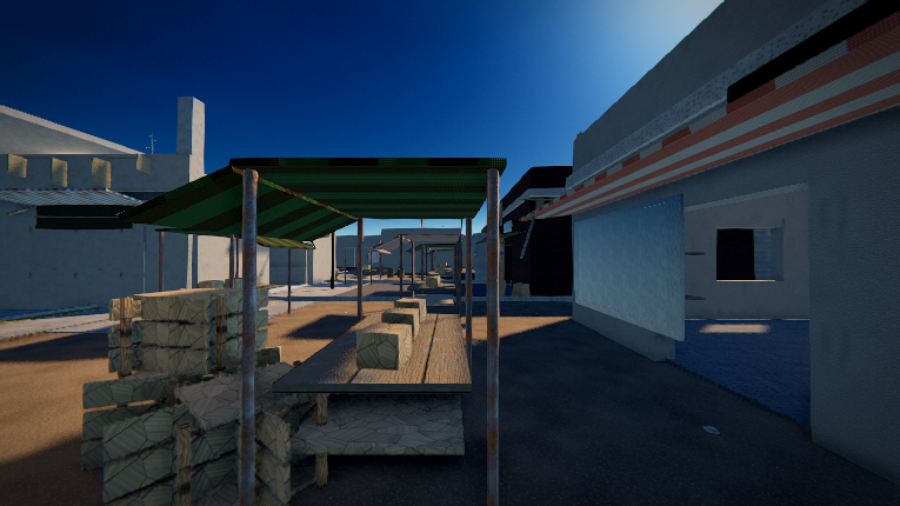
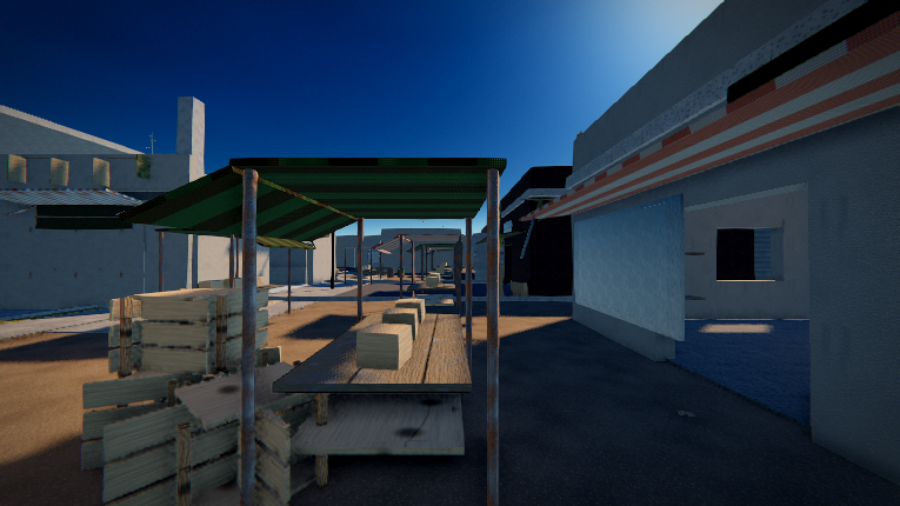
軽量化の効果を測り直して訂正し、合板のテクスチャを作り直す
■ 前のコミットの数字を訂正する
「内蔵GPU 815ms → 215ms（3.8 倍）」と書いたが、これは誤り。
ブラウザを起動し直して前後を比べており、ソフトウェア描画の速度が
その時のマシンの混み具合に振られていた。

同一プロセス内で入／切を交互に測り直した（tools/optbench.mjs）。
3 つの視点、往復 2 巡の平均：

                        広場    市場    室内
  光源プール            1.66    1.65    1.77 倍
  ＋ざらつき面のIBL省略  1.69    1.71    1.80 倍
  ＋影のぼかし 1 点      1.69    1.68    1.68 倍

正しくは 約 1.7 倍。効果のほとんどは光源プールによるもの。

■ 影のぼかし 1 点化を「低」から外した
上の通り、有意差が出なかった。
検証に使っているソフトウェア描画は CPU で走るためテクスチャ取得が
相対的に安く、5 点を 1 点にしても差が埋もれる。
テクスチャユニットが細い内蔵 GPU では効くと見込んで
内蔵GPU設定にだけ残すが、「低」から上は 5 点のままにする。
効果を測れていない画質低下を、広い範囲へ入れるべきではない。

■ 測定ツール
tools/optbench.mjs を追加。同一セッション内で最適化の入／切を
交互に測る。視点によって結果が変わる（空が広く写る画では
そもそも PBR が走らない画素が多い）ため、3 通りで測る。
シーン描画とポスト処理を分けて出す。

■ 合板（plywood）を作り直した
Worley のセルごとに木目の向きを変え、セル境界を高さ 0.45 の
深い溝にしていた。法線マップに落ちると目地そのもので、
木ではなく石畳に見えていた。市場の積み荷や屋台の台、
コンテナの床がすべて割れた石のようになっていた。

桂剥きの単板として作り直す。木目は長手方向へ流れ、
節と単板の継ぎ目が入る。研磨されているので凹凸はごく浅い。

併せて OSB（配向性ストランドボード）を別のマテリアルとして新設。
木片は名前の通り概ね一方向へ揃うので、向きは ±25 度に散らし、
木片の境目も浅い段差にとどめる。

■ 調べもの用
tools/whatis.mjs を追加。指定した視点から格子状にレイを飛ばし、
当たったメッシュのマテリアル名と距離を並べる。
「この妙な模様は何か」を目分量ではなく名前で特定できる。

Claude-Session: https://claude.ai/code/session_017BoqgF6tUzTWYWnRBSwZuk

diff --git a/src/render/TextureFactory.js b/src/render/TextureFactory.js
@@ -254,23 +254,79 @@ const DEFS = {
     o.ao = clamp01(mix(0.35, 0.95, seam) - knot * 0.25);
   },
 
-  /* --- 合板 / OSB --- */
+  /* --- 合板（構造用ラワン合板の表面） --- */
   plywood(u, v, o, S) {
-    const chips = worley(u * 9, v * 5, 9, S, 1);
-    const dir = chips.id * TAU;
-    const gu = u * Math.cos(dir) + v * Math.sin(dir);
-    const grain = valueNoise(gu * 140, chips.id * 50, 140, S + 3);
-    const glue = fbm(u * 7, v * 7, { octaves: 4, period: 7, seed: S + 11 });
-    const edge = smoothstep(0.0, 0.05, chips.f2 - chips.f1);
+    /*
+     * 合板の表面は、丸太を桂剥きにした 1 枚の連続した単板。
+     * 木目は板の長手方向へ流れ、ところどころに節と継ぎ目が入る。
+     *
+     * 以前は Worley のセルごとに木目の向きを変える OSB の作りで、
+     * さらにセル境界を高さ 0.45 の深い溝にしていた。
+     * 法線マップに落ちると目地そのもので、木ではなく石畳に見えていた。
+     */
 
-    const tone = 0.5 + chips.id * 0.4;
-    let l = (0.3 + grain * 0.13) * (0.7 + tone * 0.55) - glue * 0.05;
-    l *= mix(0.72, 1, edge);
-    o.r = l * 1.0; o.g = l * 0.79; o.b = l * 0.53;
-    o.h = grain * 0.25 + edge * 0.45;
-    o.rough = clamp01(0.78 + grain * 0.14);
+    // 単板の継ぎ目。1m 弱の幅で縦に切り替わり、色味がわずかに違う
+    const seamPos = v * 1.15 + valueNoise(u * 1.7, 0.5, 2, S + 5) * 0.22;
+    const sheet = Math.floor(seamPos);
+    const sheetTone = hash01(sheet * 37 + 11, 7, S + 5);
+    const seam = smoothstep(0.985, 1.0, seamPos - sheet) + smoothstep(0.015, 0.0, seamPos - sheet);
+
+    /*
+     * 木目。年輪が桂剥きで引き伸ばされるので、
+     * u 方向へ大きく、v 方向へ細かい縞になる。
+     * 少し歪ませて、定規で引いたような平行線にしない。
+     */
+    const wob = fbm(u * 2.4, v * 7, { octaves: 3, period: 7, seed: S + 2 }) * 0.10;
+    const grain = valueNoise(u * 5 + wob * 6, v * 96, 96, S);
+    const fine = valueNoise(u * 13, v * 260, 260, S + 7);
+    // 濃い夏目の筋（数本だけ強く出る）
+    const dark = smoothstep(0.62, 0.86, grain);
+
+    // 節。まばらに散らし、周りの木目を吸い寄せたように暗くする
+    const kn = worley(u * 3.2, v * 2.0, 4, S + 17, 1);
+    const knot = smoothstep(0.26, 0.05, kn.f1) * (kn.id > 0.74 ? 1 : 0);
+
+    let l = 0.40 + grain * 0.14 + fine * 0.045 - dark * 0.06;
+    l *= mix(0.90, 1.05, sheetTone);
+    l = mix(l, l * 0.46, knot);
+    l -= seam * 0.10;
+
+    // ラワンの赤みがかった黄土色
+    o.r = l * 1.0; o.g = l * 0.78; o.b = l * 0.53;
+    /*
+     * 研磨されているので凹凸はごく浅い。
+     * 高さに出すのは木目のわずかな導管と、継ぎ目の段差だけ。
+     */
+    o.h = grain * 0.14 + fine * 0.05 - knot * 0.12 - seam * 0.30;
+    o.rough = clamp01(0.80 + dark * 0.06 + knot * 0.09 - fine * 0.03);
     o.metal = 0;
-    o.ao = clamp01(0.6 + edge * 0.4);
+    o.ao = clamp01(0.92 - knot * 0.34 - seam * 0.22);
+  },
+
+  /* --- OSB（配向性ストランドボード） --- */
+  osb(u, v, o, S) {
+    /*
+     * 細長い木片を接着剤で圧縮した板。工事現場の仮囲いや型枠に使う。
+     * 木片は概ね一方向へ揃うので（配向性の名の通り）、
+     * 向きは 0 度前後に散らす。全方位に回すと木片ではなく
+     * 割れた石に見える。
+     */
+    const chips = worley(u * 7, v * 15, 7, S, 1);       // 横長のセル＝木片
+    const dir = (chips.id - 0.5) * 0.9;                 // ±25 度ほど
+    const gu = u * Math.cos(dir) + v * Math.sin(dir);
+    const grain = valueNoise(gu * 130, chips.id * 60, 130, S + 3);
+    const glue = fbm(u * 9, v * 9, { octaves: 4, period: 9, seed: S + 11 });
+    // 木片の境目。浅い段差にとどめる
+    const edge = smoothstep(0.0, 0.035, chips.f2 - chips.f1);
+
+    const tone = 0.45 + chips.id * 0.45;
+    let l = (0.34 + grain * 0.12) * (0.72 + tone * 0.5) - glue * 0.06;
+    l *= mix(0.84, 1, edge);
+    o.r = l * 1.0; o.g = l * 0.81; o.b = l * 0.55;
+    o.h = grain * 0.18 + edge * 0.16;
+    o.rough = clamp01(0.82 + grain * 0.10 - glue * 0.06);
+    o.metal = 0;
+    o.ao = clamp01(0.74 + edge * 0.26);
   },
 
   /* --- 土 / 乾いた地面 --- */

diff --git a/src/render/MaterialLibrary.js b/src/render/MaterialLibrary.js
@@ -42,6 +42,7 @@ const PRESETS = {
   wood:            { tex: 'wood',         repeat: 0.85,  params: { roughness: 1, metalness: 1 } },
   woodDark:        { tex: 'wood',         repeat: 0.85,  params: { roughness: 1, metalness: 1, color: 0x8a6a4c }, seed: 909 },
   plywood:         { tex: 'plywood',      repeat: 0.9, params: { roughness: 1, metalness: 1 } },
+  osb:             { tex: 'osb',          repeat: 0.8, params: { roughness: 1, metalness: 1 } },
   fabric:          { tex: 'fabric',       repeat: 0.8,  params: { roughness: 1, metalness: 1 } },
   camo:            { tex: 'camo',         repeat: 1.2,  params: { roughness: 1, metalness: 1 } },
   leather:         { tex: 'leather',      repeat: 1.6,  params: { roughness: 1, metalness: 1 } },
@@ -280,6 +281,15 @@ const PACK_ORM_NO_IBL_KEY = () => 'packedORM|noRoughIBL';
  * 影の縁は 1 テクセル幅で滑らかに繋がる。
  * 影マップが 1024 で範囲 42m なら 1 テクセルは 4cm。輪郭の差は出ない。
  * 失われるのは、それより広い範囲へ滲ませる「柔らかさ」だけ。
+ * 実測した絵の差は、影が出る画角でも 12/255 を超える画素が 0.19%
+ * （輪郭線の上だけ）にとどまる。
+ *
+ * ただし、効き目は環境によって大きく違う。
+ * 検証に使っているソフトウェア描画（SwiftShader）は CPU で走るため
+ * テクスチャ取得が相対的に安く、5 点を 1 点にしても有意差が出ない。
+ * テクスチャユニットが細い内蔵 GPU では効くと見込んで内蔵GPU設定にだけ
+ * 残しているが、「低」から上では 5 点のままにしてある。
+ * 効果を測れていない画質低下を、広い範囲へ入れるべきではない。
  *
  * ShaderChunk を直接差し替える。three はこのチャンクを
  * #include で展開するため、onBeforeCompile では手が届かない。

diff --git a/src/core/Engine.js b/src/core/Engine.js
@@ -33,7 +33,7 @@ import { LightPool } from '../render/LightPool.js';
  * 遠くの光は元々減衰しきっているので、見える絵は変わらない。
  */
 export const QUALITY = {
-  low:    { pixelRatio: 1.0,  shadows: true,  shadowMap: 1536, gtao: false, bloom: true, aa: 'fxaa', aniso: 8,  shadowDist: 40, texSize: 512,  bloomScale: 0.5,  minScale: 0.85, maxLights: 4, dropRoughIBL: true, cheapShadows: true },
+  low:    { pixelRatio: 1.0,  shadows: true,  shadowMap: 1536, gtao: false, bloom: true, aa: 'fxaa', aniso: 8,  shadowDist: 40, texSize: 512,  bloomScale: 0.5,  minScale: 0.85, maxLights: 4, dropRoughIBL: true },
   medium: { pixelRatio: 1.25, shadows: true,  shadowMap: 2048, gtao: false, bloom: true, aa: 'smaa', aniso: 16, shadowDist: 52, texSize: 512,  bloomScale: 0.5,  minScale: 0.85, maxLights: 6 },
   high:   { pixelRatio: 1.5,  shadows: true,  shadowMap: 2560, gtao: true,  bloom: true, aa: 'smaa', aniso: 16, shadowDist: 68, texSize: 1024, bloomScale: 0.75, minScale: 0.85, maxLights: 8 },
   /*
